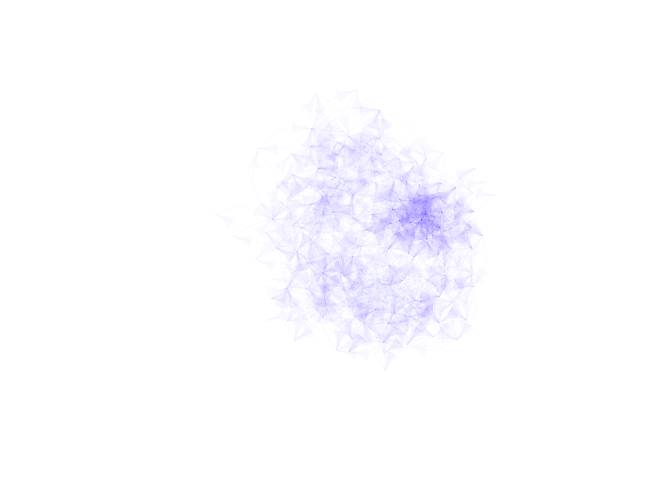
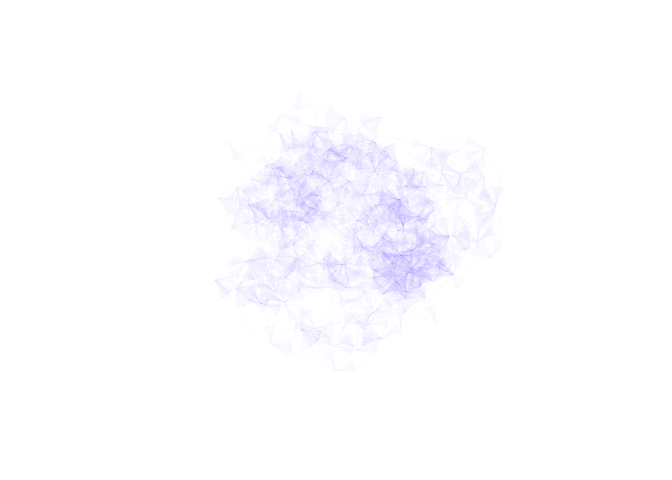
Edits from Erica
- generate random -> randomly generate
- min_module_size < ave_module_size

Changed region(s): [[0.375, 0.3125, 0.7188, 0.7188]]

diff --git a/README.md b/README.md
@@ -44,7 +44,7 @@ devtools::install_github("cboettig/EcoNetGen")
 This way requires you have a recent FORTRAN compiler avialble on your
 machine.
 
-## Generate random networks
+## Randomly generate networks
 
 This is a basic example which generates a network. See `?netgen` for
 documentation describing the parameter arguments. Setting `verbose =
@@ -56,16 +56,16 @@ set.seed(123456) # for a reproducible simulation
 
 network <- netgen(net_size = 150,
                   ave_module_size = 20, 
-                  min_module_size = 20,
+                  min_module_size = 10,
                   min_submod_size = 5,
                   net_type = "bi-partite nested",
                   ave_degree = 10,
                   verbose = TRUE
                   ) 
 #> 
-#> module count = 6 
-#> average degree = 7.12 
-#> average module size = 25 
+#> module count = 8 
+#> average degree = 6.08 
+#> average module size = 18.75 
 #> number of components = 1 
 #> size of largest component = 150
 ```
@@ -158,7 +158,7 @@ number of modules:
 ``` r
 community <- cluster_edge_betweenness(as.undirected(network))
 length(groups(community))
-#> [1] 6
+#> [1] 9
 ```
 
 We can check the size of each module as well:
@@ -167,15 +167,15 @@ We can check the size of each module as well:
 module_sizes <- sizes(community)
 module_sizes
 #> Community sizes
-#>  1  2  3  4  5  6 
-#> 21 23 21 22 44 19
+#>  1  2  3  4  5  6  7  8  9 
+#> 18 19 31 19 22  7  3 20 11
 ```
 
 Average degree:
 
 ``` r
 mean(degree(as.undirected(network)))
-#> [1] 7.12
+#> [1] 6.08
 ```
 
 We can also label and plot the cluster membership:
